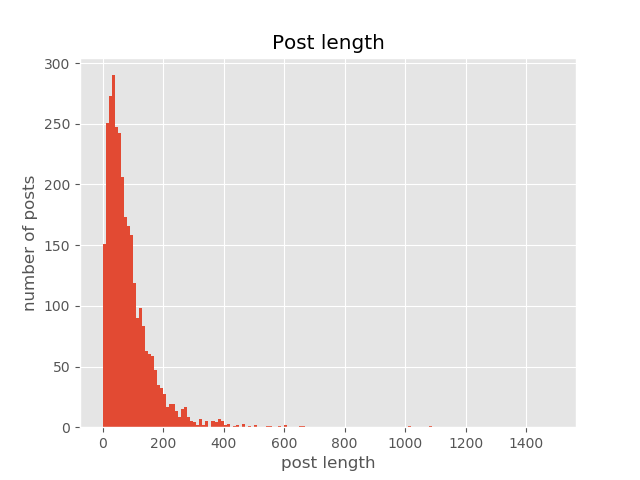
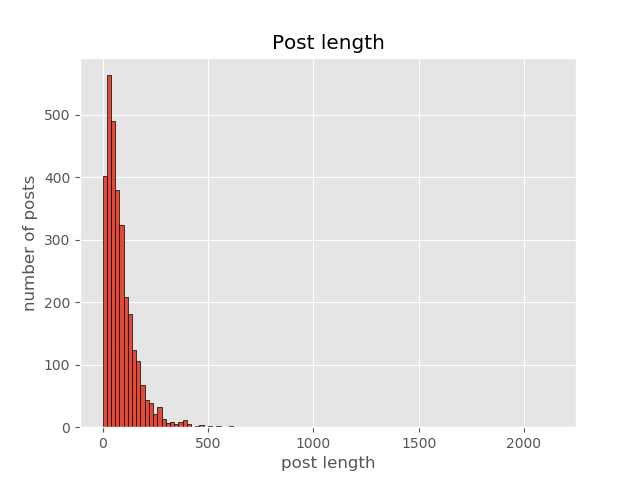
redraw post length hist

diff --git a/1-DataCollection/process_data.py b/1-DataCollection/process_data.py
@@ -87,9 +87,10 @@ posts = pandas.concat([questions, answers]).sort_values('ParentId')[
 
 posts_length = posts.groupby('Post length').count()[['Id']]
 posts_length.columns = ['Number of posts']
-posts_length.to_csv(os.path.join(outputSubdir, 'word_count.csv'), encoding='utf-8')
+posts_length = posts_length.reset_index()
+posts_length.to_csv(os.path.join(outputSubdir, 'word_count.csv'), encoding='utf-8', index=False)
 
-posts.hist('Post length', bins=range(0, 1500, 10))
+posts.hist('Post length', bins=range(0, posts_length['Post length'].max()+1, 20), edgecolor='black')
 plt.xlabel('post length')
 plt.ylabel('number of posts')
 plt.savefig(os.path.join(outputSubdir, 'word_count_hist.png'))
